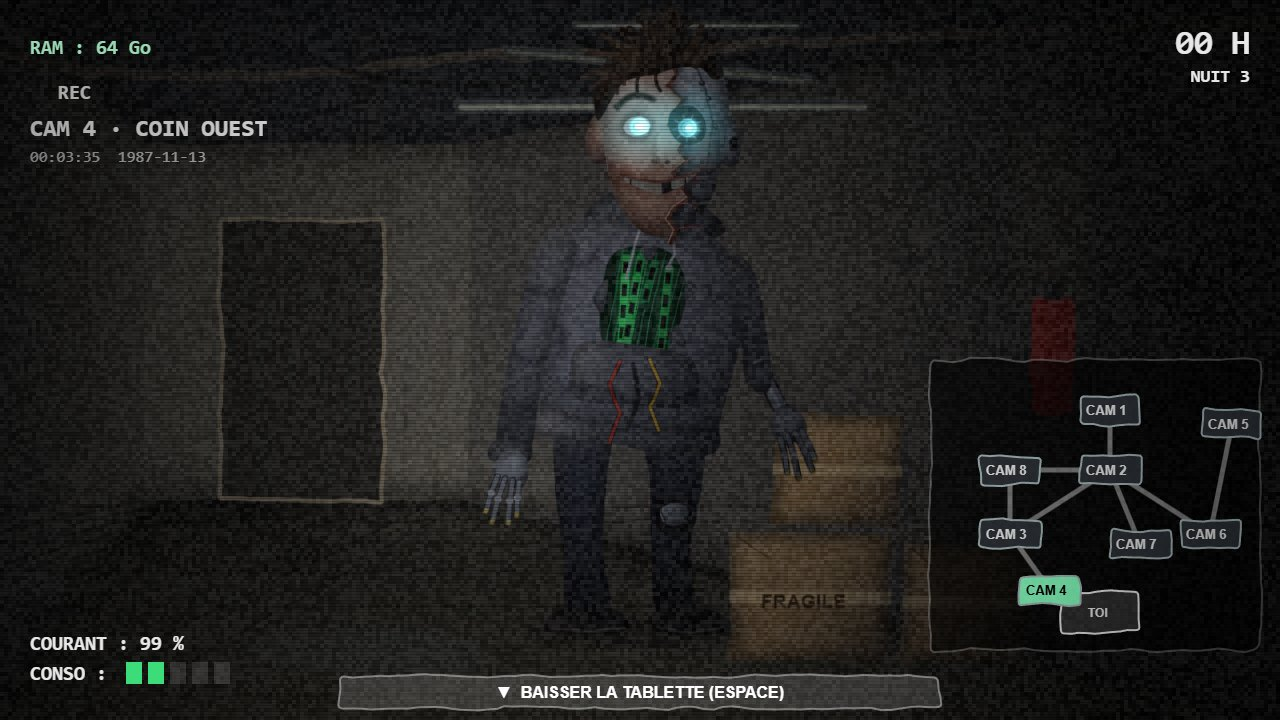
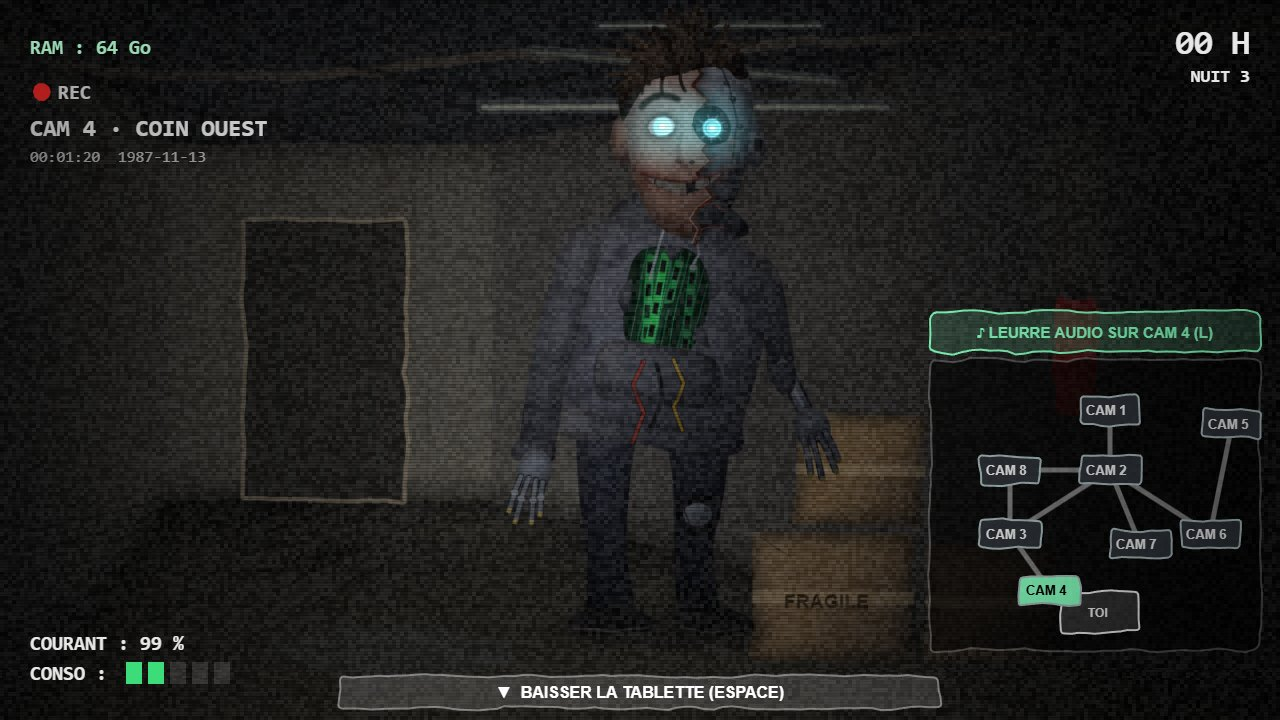
L'histoire et de nouveaux gestes : 8 fragments à ramasser sur les caméras, un journal à chaque matin, les Archives dans le menu et une vraie fin ; leurre audio (L) pour attirer Ram ou faire reculer les Puces ; à partir de la nuit 2, Ram pirate les caméras, à redémarrer depuis le moniteur (R) ; la nu

diff --git a/index.js b/index.js
@@ -635,6 +635,8 @@ function makeAudio() {
     breath(pan = 0, near = .5) { noise({ f: 420, q: .7, dur: 1.3, vol: .05 + near * .14, attack: .55, pan }); noise({ f: 300, q: .7, dur: 1.1, vol: .04 + near * .12, attack: .45, pan, at: 1.45 }); },
     // une image qui n'aurait pas dû être là
     glitch() { noise({ f: 3000, q: .3, dur: .28, vol: .5, type: 'highpass' }); tone({ f: 90, type: 'sawtooth', dur: .25, vol: .35, slide: 3 }); tone({ f: 1200, type: 'square', dur: .2, vol: .08, slide: .3 }); },
+    lure() { [392, 523.25, 659.25, 783.99].forEach((f, i) => tone({ f, type: 'square', dur: .35, vol: .05, at: i * .12 })); noise({ f: 2000, q: 2, dur: .8, vol: .05, at: .1 }); },
+    reboot() { tone({ f: 60, type: 'sawtooth', dur: .6, vol: .12, slide: 4 }); [0, .25, .5].forEach(at => tone({ f: 1800, type: 'square', dur: .05, vol: .04, at })); },
     tick() { tone({ f: 2000, type: 'square', dur: .015, vol: .02 }); },
     click() { tone({ f: 700, type: 'square', dur: .03, vol: .05 }); noise({ f: 3000, q: 4, dur: .03, vol: .05 }); },
     deny() { tone({ f: 160, type: 'square', dur: .2, vol: .08 }); },
@@ -670,14 +672,39 @@ const CALLS = {
     "S'il arrive et que ta porte droite est ouverte, il te pique seize gigas. Si elle est fermée, il tape dedans et ça te coûte du courant. Regarde-le de temps en temps, voilà."],
   3: ["Allô ? Bon, mauvaise nouvelle : les Puces. De petites bêtes faites d'une barrette, avec des pattes. Elles remontent par la gaine de ventilation, caméra sept.",
     "Quand tu les entends gratter au-dessus de toi, ferme la trappe. Touche V, ou l'interrupteur sur le bureau. Sinon elles descendent et elles mangent la Pile. Huit gigas à chaque fois.",
-    "Et Monsieur Altman a trouvé le couloir est. Il peut arriver des deux côtés, maintenant."],
+    "Et Monsieur Altman a trouvé le couloir est. Il peut arriver des deux côtés, maintenant.",
+    "Autre chose : la nuit, il pirate parfois les caméras. Si l'écran dit « accès refusé », redémarre-les depuis le moniteur du bureau, touche R. Et si tu as besoin de l'éloigner, le leurre audio de la tablette joue un petit carillon dans la pièce que tu regardes. Il adore ce son. Il dit qu'il s'en souvient.",
+    "Ah, et si tu trouves des papiers qui traînent sur les caméras… ramasse-les. Le patron, monsieur Octet, il avait un fils. On n'en parle pas, ici."],
   4: ["Allô ? Allô ? Je… je n'ai pas beaucoup de temps. Il m'a parlé, hier. Par la grille. Il disait qu'il voulait juste emprunter. Juste une barrette.",
     "Ne lui ouvre pas. Il ne rend jamais rien. Il… attends. Tu entends ce sourire ?"],
   5: ["… … Bonjour. C'est Ram. Gérard ne viendra plus. Il a partagé sa RAM. C'était très généreux.",
     "Je ne suis pas méchant, tu sais. Je veux seulement que toute la mémoire du monde travaille ensemble. Dans mes serveurs.",
     "Ouvre la porte. On en parle. Je souris, regarde."],
-  6: ["Tu es encore là ? Plus de messages. Plus personne. Seulement toi, la Pile, et moi."],
+  6: ["Tu es encore là ? Plus de messages. Plus personne. Seulement toi, la Pile, et moi.", "Tu as lu les papiers, n'est-ce pas. Alors tu sais ce qu'il y a dans la vitrine. Ce n'est pas à toi."],
 };
+// le lore : 8 fragments cachés dans les caméras (un par nuit, parfois deux), un journal à chaque matin, et la vraie fin
+const FRAGS = [
+  ['f1', 'Badge d\'employé', 'CLOSEDRAM — Ingénieur n° 1\nLÉO OCTET\nAccès : laboratoire PILE, tous niveaux.\n\nLa photo a été grattée. Quelqu\'un a dessiné un sourire par-dessus, au feutre.'],
+  ['f2', 'Note sur le frigo', 'Léo n\'est pas rentré. Raymond dit qu\'il travaille tard sur la PILE.\nIl souriait en le disant.\nJe n\'aime pas quand il sourit.\n\n— Gérard, 13 novembre 1987'],
+  ['f3', 'Brevet n° 87-1113', 'Procédé de sauvegarde intégrale d\'une conscience humaine sur mémoire vive.\nCapacité requise : 64 Go.\nÉtat de l\'art en 1987 : 640 Ko.\n\nInventeurs : R. Altman, L. Octet.'],
+  ['f4', 'Journal de test n° 12', 'Sujet : L.O.   Transfert : 61 %.\nLe sujet demande où est son père.\nLe sujet demande pourquoi il ne sent plus ses mains.\nLe sujet demande qui est l\'homme qui sourit dans le miroir.\n\nNote de R.A. : « Il faut plus de mémoire. »'],
+  ['f5', 'Bon de commande', '1 masque facial en silicone, modèle « R.A. »\nExpression : sourire, permanent.\nYeux : à fournir par le client.\n\nLivraison : Octet & Fils, porte de service, de nuit.'],
+  ['f6', 'Message vocal (transcrit)', '« Papa ? C\'est moi. Je crois.\nIl me manque des bouts. Des prénoms. Ta voix.\nIl dit que s\'il trouve assez de RAM, je me souviendrai de tout.\nIl dit que ce n\'est pas lui qui a peur d\'oublier. C\'est moi. »'],
+  ['f7', 'Facture du Revendeur', 'Rachat de 4 000 barrettes, payé comptant.\nClient : M. R. Altman.\n\nNote du vendeur : « Le client a insisté. Il en faut toujours plus.\nIl oublie ce qu\'il a acheté la veille. »'],
+  ['f8', 'Photo déchirée', 'Deux jeunes hommes devant un garage, 1987.\nL\'un sourit. L\'autre a les yeux bleus.\n\nAu dos : « Raymond et moi, le jour où la PILE a démarré.\nSi un jour je ne me souviens plus, garde-la, papa. — L. »'],
+];
+const NEWS = {
+  1: ['Le Courrier du Soir, 14 novembre 1987', 'DISPARITION D\'UN JEUNE INGÉNIEUR\n\nLéo Octet, 24 ans, n\'est pas rentré chez son père après une nuit au laboratoire de la jeune société ClosedRAM. Son associé, Raymond Altman, se dit « confiant » : « Léo est très présent. »'],
+  2: ['Le Courrier du Soir, 3 mars 1994', 'CLOSEDRAM RACHÈTE TOUTE LA MÉMOIRE DU PAYS\n\nEn une semaine, la société de Raymond Altman a acheté tous les stocks de barrettes. Son patron, que personne n\'a vu depuis des années, répond par écrit : « La mémoire doit travailler ensemble. »'],
+  3: ['Le Courrier du Soir, 9 juin 2003', 'RAYMOND ALTMAN SORT DE L\'OMBRE\n\nPremière apparition publique en seize ans. Le patron de ClosedRAM n\'a pas pris une ride. « Je n\'ai jamais été aussi présent », a-t-il dit, avant de sourire pendant onze minutes sans s\'arrêter.'],
+  4: ['Le Courrier du Soir, 2 février 2019', 'PÉNURIE MONDIALE DE RAM\n\nPlus une barrette en vente. Les entrepôts de ClosedRAM sont pleins, dit-on, mais ses serveurs « oublient » sans cesse. Un employé témoigne : « Il redémarre. Il demande où est son père. »'],
+  5: ['Le Courrier du Soir, hier', 'UN VEILLEUR DE NUIT DISPARAÎT CHEZ OCTET & FILS\n\nGérard M., 71 ans, ancien gardien de la petite entreprise familiale, n\'a pas été revu. Sur son répondeur, un dernier message : « Il est venu chercher le reste. »'],
+  6: ['Rapport de police, confidentiel', 'Le corps de Raymond Altman a été retrouvé hier dans l\'ancien garage de ClosedRAM.\nSelon le légiste, il est mort depuis environ 1987.\n\nQuestion du commissaire, au crayon dans la marge : « Alors qui porte son visage ? »'],
+};
+const TRUE_END = ['La vraie fin', 'Tu as tout lu. Tu sais.\n\nRaymond Altman est mort en 1987, le soir où la PILE a démarré. Ce qui marche dans les couloirs, c\'est Léo : sa mémoire coupée en morceaux, enfermée dans un corps de métal, sous le visage de l\'homme qui l\'a mis là.\n\nIl ne veut pas toute la RAM du monde. Il veut assez de place pour se souvenir de qui il est.\nLa Pile, ce sont les derniers 64 Go de lui que son père a cachés.\n\nÀ 6 h, tu ouvres la vitrine. Tu poses une barrette dans l\'encadrement de la porte.\nLe sourire ne bouge pas. Mais les yeux, pour la première fois, ne sont plus bleus.'];
+// les liens entre les pièces (pour le leurre audio : il ne vient que d'une pièce voisine)
+const ADJ = { 1: ['2'], 2: ['1', '3', '8', '6'], 8: ['2', '3'], 3: ['2', '8', '4'], 4: ['3', 'L'], 6: ['2', 'R'], L: ['4'], R: ['6'] };
+const FRAG_SPOTS = { 1: [[300, 470], [1000, 560]], 2: [[220, 600], [1060, 610]], 3: [[220, 470], [980, 560]], 4: [[1020, 450], [300, 600]], 5: [[200, 600], [1120, 600]], 6: [[1080, 440], [220, 600]], 8: [[230, 560], [900, 590]] };
 // l'agressivité de chacun, nuit par nuit (0 = ne bouge pas, 20 = au maximum) : [Ram, Revendeur, Puces]
 const NIGHTS = { 1: [2, 0, 0], 2: [4, 2, 0], 3: [6, 5, 4], 4: [9, 8, 7], 5: [12, 11, 10], 6: [16, 15, 14] };
 const RAM_NEXT = { 1: ['2'], 2: ['3', '8', '6'], 8: ['3', '2'], 3: ['4'], 4: ['L'], 6: ['R'] };
@@ -698,7 +725,7 @@ export default async function (ctx) {
   const rooms = buildRooms(), office = buildOffice(), A = makeAudio();
   const SCAN = (() => { const c = mkCanvas(W, H), s = c.getContext('2d'); s.fillStyle = 'rgba(0,0,0,.22)'; for (let y = 0; y < H; y += 3) s.fillRect(0, y, W, 1); return c; })();
   // la sauvegarde : nuit atteinte, étoiles, nuit perso
-  const save = { night: 1, stars: 0, custom: [10, 10, 10], ...(await folder.read('progression').catch(() => null) || {}) };
+  const save = { night: 1, stars: 0, custom: [10, 10, 10], docs: [], ...(await folder.read('progression').catch(() => null) || {}) };
   const keep = () => folder.write('progression', save).catch(() => {});
 
   // ---------- état ----------
@@ -708,7 +735,7 @@ export default async function (ctx) {
     const [ra, sc, ch] = ai || NIGHTS[Math.min(n, 6)];
     S = { n, time: 0, hourLen: 60, power: 100, ram: 64, pan: 320, doorL: false, doorR: false, dl: 0, dr: 0, lightL: false, lightR: false, vent: false, va: 0,
       cam: false, ca: 0, sel: 1, ai: { ram: ra, sc, ch }, ramPos: '1', ramT: 0, doorWait: 0, scStage: 0, scRun: 0, scT: 0, scLock: 0, chPos: 0, chT: 0, chWait: 0,
-      disrupt: 0, flick: 0, out: 0, outPhase: 0, inside: 0, ramVar: 0, breathT: 0, hallT: 40 + Math.random() * 50, hall: 0, switchT: 0, call: CALLS[Math.min(n, 6)] && !ai ? { lines: CALLS[Math.min(n, 6)], i: 0, t: 0 } : null, steal: null, said: 0, events: [], usage: 1, hourBumps: 0 };
+      disrupt: 0, flick: 0, out: 0, outPhase: 0, inside: 0, ramVar: 0, frag: null, fragT: 25 + Math.random() * 150, fragN: 0, lure: null, lureCd: 0, hacked: false, reboot: 0, camOx: 0, newDoc: null, breathT: 0, hallT: 40 + Math.random() * 50, hall: 0, switchT: 0, call: CALLS[Math.min(n, 6)] && !ai ? { lines: CALLS[Math.min(n, 6)], i: 0, t: 0 } : null, steal: null, said: 0, events: [], usage: 1, hourBumps: 0 };
     scene = 'card'; sceneT = 0; setTimeout(prepJaws, 50);  // l'écran de la nuit laisse le temps de préparer le saut au visage
   }
   // les images du saut au visage, bouche de plus en plus ouverte, dessinées une seule fois
@@ -736,7 +763,7 @@ export default async function (ctx) {
     if (S.call) { S.call.t += dt; }
     // le courant
     if (!S.out) {
-      S.usage = 1 + S.doorL + S.doorR + S.vent + (S.lightL || S.lightR ? 1 : 0) + (S.cam ? 1 : 0);
+      S.usage = Math.min(5, 1 + S.doorL + S.doorR + S.vent + (S.lightL || S.lightR ? 1 : 0) + (S.cam ? 1 : 0) + (S.reboot > 0 ? 1 : 0));
       const base = .085 + S.n * .006 + (S.n >= 2 ? .01 : 0);
       S.power -= S.usage * base * dt;
       if (S.power <= 0) powerOut();
@@ -749,7 +776,7 @@ export default async function (ctx) {
       S.ramT -= 4.97;
       if (!/[LR]|in/.test(S.ramPos) && R(20) < S.ai.ram) {
         const opts = RAM_NEXT[S.ramPos].filter(id => S.n >= 3 || id !== '6'), to = opts[R(opts.length)], from = S.ramPos;
-        S.ramPos = to; S.ramVar = /[368]/.test(to) && R(3) === 0 ? 1 : 0; if (S.cam && (S.sel == from || S.sel == to)) S.disrupt = 1.6;  // la caméra qu'on regarde décroche quand il passe
+        S.ramPos = to; S.ramVar = /[368]/.test(to) && R(3) === 0 ? 1 : 0; if (S.n >= 2 && /[12]/.test(to) && !S.hacked && R(40) < S.ai.ram) { S.hacked = true; A.glitch(); if (S.cam) S.disrupt = .8; } if (S.cam && (S.sel == from || S.sel == to)) S.disrupt = 1.6;  // la caméra qu'on regarde décroche quand il passe
         if (/[346LR]/.test(to)) A.step(/[34L]/.test(to) ? -.8 : .8, /[LR]/.test(to) ? 1 : .5);
         if (/[LR]/.test(to)) { S.doorWait = Math.max(2.6, 7.5 - S.ai.ram * .22); if (R(3) === 0) ramLine(); }
       }
@@ -768,6 +795,17 @@ export default async function (ctx) {
     // les hallucinations : à partir de la nuit 3, son visage passe parfois devant tes yeux
     if (S.n >= 3 || S.ai.ram >= 10) { S.hallT -= dt; if (S.hallT <= 0) { S.hallT = 35 + Math.random() * 60; S.hall = .2; A.glitch(); } }
     if (S.hall > 0) S.hall -= dt; if (S.switchT > 0) S.switchT -= dt;
+    // un fragment apparaît quelques secondes dans une caméra (au plus deux par nuit, tant qu'il en reste à trouver)
+    const left = FRAGS.filter(f => !save.docs.includes(f[0]));
+    if (S.frag) { S.frag.t -= dt; if (S.frag.t <= 0) S.frag = null; }
+    else if (left.length && S.fragN < 2 && (S.fragT -= dt) <= 0) { const cams = Object.keys(FRAG_SPOTS), cam = cams[R(cams.length)], sp = FRAG_SPOTS[cam][R(2)]; S.frag = { id: left[0][0], cam, x: sp[0], y: sp[1], t: 14 }; S.fragN++; S.fragT = 60 + Math.random() * 120; }
+    // le leurre : deux secondes plus tard, s'il est dans une pièce voisine, il vient voir (les Puces, elles, reculent)
+    if (S.lureCd > 0) S.lureCd -= dt;
+    if (S.lure && (S.lure.t -= dt) <= 0) { const c = S.lure.cam; S.lure = null;
+      if (c === '7') { if (S.chPos) { S.chPos = Math.max(0, S.chPos - 2); A.skitter(.2); } }
+      else if ((ADJ[c] || []).includes(S.ramPos) && R(10) < 8) { const from = S.ramPos; S.ramPos = c; S.ramVar = 0; S.ramT = 0; if (/[LR]/.test(from)) A.step(from === 'L' ? -.6 : .6, .4); if (S.cam && S.sel == c) S.disrupt = 1; } }
+    // le piratage : branché au réseau (caméras 1 et 2), il coupe tes caméras ; on les redémarre depuis le moniteur
+    if (S.reboot > 0 && (S.reboot -= dt) <= 0) { S.hacked = false; A.chime(); }
     // ---- le Revendeur : il prépare son coup quand on ne le regarde pas
     S.scT += dt; if (S.scLock > 0) S.scLock -= dt;
     const watching = S.cam && S.sel == 5;
@@ -817,7 +855,7 @@ export default async function (ctx) {
   }
   function win() {
     A.hush(); A.ambience(false); A.chime(); scene = 'six'; sceneT = 0;
-    if (S.n < 7) { save.night = Math.max(save.night, Math.min(S.n + 1, 6)); if (S.n === 5) save.stars = Math.max(save.stars, 1); if (S.n === 6) save.stars = Math.max(save.stars, 2); }
+    if (S.n < 7) { if (!save.docs.includes('j' + S.n)) save.docs.push('j' + S.n); if (S.n === 6 && FRAGS.every(f => save.docs.includes(f[0])) && !save.docs.includes('fin')) { save.docs.push('fin'); S.trueEnd = true; } save.night = Math.max(save.night, Math.min(S.n + 1, 6)); if (S.n === 5) save.stars = Math.max(save.stars, 1); if (S.n === 6) save.stars = Math.max(save.stars, 2); }
     if (S.n === 7 && S.ai.ram >= 20 && S.ai.sc >= 20 && S.ai.ch >= 20) save.stars = 3;
     keep();
   }
@@ -890,7 +928,10 @@ export default async function (ctx) {
     g.fillStyle = '#c8c8c0'; g.font = 'bold 11px Arial'; g.fillText('TRAPPE (V)', tx + 18, 672);
     // l'écran du bureau
     const mx = 560 - p; g.fillStyle = dark ? '#000' : 'rgba(40,120,90,.25)'; g.fillRect(mx + 10, 420, 220, 140);
-    if (!dark) { g.fillStyle = '#7ef0b4'; g.font = '14px Consolas, monospace'; ['OCTET & FILS', 'NUIT ' + S.n, 'PILE : ' + S.ram + ' Go', 'COURANT : ' + Math.max(0, S.power | 0) + ' %', T % 1 < .5 ? '> _' : '>'].forEach((l, i) => g.fillText(l, mx + 22, 446 + i * 22)); }
+    if (!dark) { g.fillStyle = '#7ef0b4'; g.font = '14px Consolas, monospace'; ['OCTET & FILS', 'NUIT ' + S.n, 'PILE : ' + S.ram + ' Go', 'COURANT : ' + Math.max(0, S.power | 0) + ' %'].forEach((l, i) => g.fillText(l, mx + 22, 446 + i * 22));
+      if (S.reboot > 0) { g.fillText('REDÉMARRAGE CAMÉRAS', mx + 22, 534); g.fillStyle = '#1a4a34'; g.fillRect(mx + 22, 542, 190, 10); g.fillStyle = '#7ef0b4'; g.fillRect(mx + 22, 542, 190 * (1 - S.reboot / 4), 10); }
+      else if (S.hacked) { g.fillStyle = T % .8 < .5 ? '#ff5a4a' : '#7a2a24'; g.fillText('CAMÉRAS PIRATÉES', mx + 22, 534); g.fillText('[R] OU CLIC : REDÉMARRER', mx + 22, 552); }
+      else g.fillText(T % 1 < .5 ? '> _' : '>', mx + 22, 534); }
     // la lumière de la pièce : la lampe du bureau, qui vacille ; noir presque total sans courant
     const lamp = S.out ? 0 : S.flick > 0 ? (S.ramPos === 'in' ? Math.random() * .5 : .35 + Math.random() * .3) : 1;
     g.fillStyle = rad(g, 960 - p, 520, 40, 1050, [[0, `rgba(0,0,0,${.15 + (1 - lamp) * .6})`], [.5, `rgba(0,0,0,${.5 + (1 - lamp) * .4})`], [1, `rgba(0,0,0,${.88 + (1 - lamp) * .1})`]]); g.fillRect(0, 0, W, H);
@@ -909,7 +950,7 @@ export default async function (ctx) {
   function drawCam() {
     const id = S.sel, room = rooms[id], here = S.ramPos == id, close = here && S.ramVar && /[368]/.test(id), ox = Math.sin(T * .22 + +id) * 46;
     g.save(); g.translate(W / 2, H / 2); g.scale(1.08, 1.08); g.translate(-W / 2 - ox, -H / 2);
-    g.drawImage(room.base, 0, 0);
+    g.drawImage(room.base, 0, 0); S.camOx = ox;
     const lit = .75, ch = (draw, x, y, s, side = -1, key) => litChar(g, draw, x, y, s, side, .4, key);
     const ram = pose => (cg, a, b, s) => drawRam(cg, a, b, s, pose, lit, T), sc = pose => (cg, a, b, s) => drawScalper(cg, a, b, s, pose, lit, T);
     if (here && room.spots.ram && !close) { const [fx, fy] = room.spots.ram; g.save(); g.translate(fx, fy); g.rotate(Math.sin(T * .7) * .01 + (T % 4.3 < .06 ? .03 : 0)); g.translate(-fx, -fy); ch(ram(id === '4' ? 'lean' : 'stand'), ...room.spots.ram, -1, id === '4' ? 'ramlean' : 'ramstand'); g.restore(); }
@@ -920,6 +961,7 @@ export default async function (ctx) {
     if (id === '6' && S.scRun) ch(sc('run'), 640 + (4.2 - S.scRun) * 60, 600 + (4.2 - S.scRun) * 40, +(.55 + (4.2 - S.scRun) * .2).toFixed(1), 1, 'scrun' + (T * 12 | 0) % 6);
     if (id === '7') for (let i = 0; i < (S.chPos ? 1 + Math.min(3, S.chPos) : 0); i++) { const k = S.chPos / 4, s = .35 + k * 1.4; drawChip(g, 640 + (i - 1) * 90 * s, 345 + k * 200 + (i % 2) * 20 * s, s, .8, T, i); }
     g.drawImage(room.shade, 0, 0);
+    if (S.frag && S.frag.cam == id) { const { x: fx, y: fy } = S.frag; g.save(); g.translate(fx, fy); g.rotate(-.2); rrect(g, -22, -16, 44, 32, 2, '#d8d0b8'); g.strokeStyle = 'rgba(40,40,60,.5)'; g.lineWidth = 1.5; for (let k = 0; k < 4; k++) { g.beginPath(); g.moveTo(-16, -8 + k * 6); g.lineTo(10 - k * 3, -8 + k * 6); g.stroke(); } g.restore(); glow(g, fx, fy, 50 + Math.sin(T * 5) * 8, '255,230,160', .35); }
     if (here && R(5) === 0) { g.fillStyle = 'rgba(0,0,0,.55)'; g.fillRect(-60, 0, W + 120, H); }  // la lampe de la pièce saute
     // les yeux et les LED percent l'ombre
     if (here && room.spots.ram && !close) ramGlow(g, ...room.spots.ram, id === '4' ? 'lean' : 'stand', .8);
@@ -942,6 +984,25 @@ export default async function (ctx) {
     g.font = 'bold 24px Consolas, monospace'; g.fillText('CAM ' + id + ' · ' + room.name, 30, 136);
     const sec = S.time / S.hourLen * 3600 | 0; g.font = '16px Consolas, monospace'; g.fillStyle = 'rgba(230,230,230,.75)'; g.fillText(`${String(sec / 3600 | 0).padStart(2, '0')}:${String(sec / 60 % 60 | 0).padStart(2, '0')}:${String(sec % 60).padStart(2, '0')}  1987-11-13`, 30, 162);
     drawMap();
+    // l'écran piraté : plus d'image, plus de leurre, tant qu'on n'a pas redémarré depuis le bureau
+    if (S.hacked) { g.fillStyle = 'rgba(0,0,0,.92)'; g.fillRect(0, 0, W, H - 60); g.save(); g.globalAlpha = .25; g.drawImage(NOISE[(T * 30 | 0) % 4], 0, 0, W, H - 60); g.restore(); drawMap();
+      g.fillStyle = T % 1 < .6 ? '#ff5a4a' : '#7a2a24'; g.font = 'bold 40px Consolas, monospace'; g.textAlign = 'center'; g.fillText('ACCÈS REFUSÉ', (MAPX - 20) / 2, H / 2 - 30);
+      g.fillStyle = '#ccc'; g.font = '18px Consolas, monospace'; g.fillText(S.reboot > 0 ? 'redémarrage en cours…' : 'Redémarre les caméras depuis le moniteur du bureau (R)', (MAPX - 20) / 2, H / 2 + 10); g.fillStyle = '#7ef0b4'; g.fillText('« Je vois tout, maintenant. »', (MAPX - 20) / 2, H / 2 + 50); g.textAlign = 'left'; }
+    // le bouton du leurre audio, au-dessus de la carte
+    const lx = MAPX - 10, ly = MAPY - 58, ready = S.lureCd <= 0 && !S.hacked;
+    rrect(g, lx, ly, 330, 40, 6, ready ? 'rgba(126,240,180,.18)' : 'rgba(255,255,255,.06)', ready ? '#7ef0b4' : '#555', 2);
+    g.fillStyle = ready ? '#7ef0b4' : '#888'; g.font = 'bold 15px Arial'; g.textAlign = 'center'; g.fillText(S.lure ? '♪ LE CARILLON JOUE…' : ready ? '♪ LEURRE AUDIO SUR CAM ' + id + ' (L)' : S.hacked ? 'LEURRE HORS LIGNE' : 'LEURRE : ' + Math.ceil(S.lureCd) + ' s', lx + 165, ly + 26); g.textAlign = 'left';
+  }
+  // ramasser un fragment ; jouer le leurre
+  function pickFrag(x, y) {
+    if (!S.frag || S.frag.cam !== String(S.sel) || S.hacked) return false;
+    const sx = (S.frag.x - W / 2 - S.camOx) * 1.08 + W / 2, sy = (S.frag.y - H / 2) * 1.08 + H / 2;
+    if (Math.hypot(x - sx, y - sy) > 46) return false;
+    save.docs.push(S.frag.id); keep(); S.newDoc = S.frag.id; A.chime(); flash('Fragment trouvé : ' + FRAGS.find(f => f[0] === S.frag.id)[1] + ' (Archives)', '#ffd84a'); S.frag = null; return true;
+  }
+  function lure() {
+    if (!S.cam || S.hacked || S.lureCd > 0) return A.deny();
+    S.lure = { cam: String(S.sel), t: 2 }; S.lureCd = 14; S.power -= 1.5; A.lure();
   }
   function drawMap() {
     rrect(g, MAPX - 10, MAPY - 10, 330, 290, 6, 'rgba(0,0,0,.55)', 'rgba(255,255,255,.25)', 2);
@@ -978,7 +1039,7 @@ export default async function (ctx) {
 
   // ---------- les écrans ----------
   const MENU = () => [['NOUVELLE PARTIE', () => { scene = 'intro'; sceneT = 0; }], ...(save.night > 1 ? [['CONTINUER · NUIT ' + Math.min(save.night, 5), () => start(Math.min(save.night, 5))]] : []),
-    ...(save.night >= 6 ? [['NUIT 6', () => start(6)]] : []), ...(save.stars >= 1 ? [['NUIT PERSO', () => { scene = 'custom'; sceneT = 0; }]] : []), ['COMMENT JOUER', () => { scene = 'help'; sceneT = 0; }], [A.muted ? 'SON : NON' : 'SON : OUI', () => { A.muted = !A.muted; A.mute(A.muted); }]];
+    ...(save.night >= 6 ? [['NUIT 6', () => start(6)]] : []), ...(save.stars >= 1 ? [['NUIT PERSO', () => { scene = 'custom'; sceneT = 0; }]] : []), ...(save.docs.length ? [['ARCHIVES (' + save.docs.length + ')', () => { scene = 'archives'; sceneT = 0; }]] : []), ['COMMENT JOUER', () => { scene = 'help'; sceneT = 0; }], [A.muted ? 'SON : NON' : 'SON : OUI', () => { A.muted = !A.muted; A.mute(A.muted); }]];
   let buttons = [];
   const button = (label, x, y, w, h, fn, sel) => { const hov = mouse.x > x && mouse.x < x + w && mouse.y > y && mouse.y < y + h; buttons.push({ x, y, w, h, fn }); g.fillStyle = hov || sel ? '#fff' : '#9a9a9a'; g.font = 'bold 30px Impact, "Arial Black", sans-serif'; g.fillText((hov || sel ? '> ' : '') + label, x, y + h - 8); };
   function drawTitle() {
@@ -1007,7 +1068,7 @@ export default async function (ctx) {
     g.font = '20px Georgia'; g.fillStyle = '#ccc';
     ['Tiens de 00 h à 06 h sans perdre la Pile (64 Go de RAM).', '', 'Souris aux bords de l\'écran (ou ← →) : regarder à gauche et à droite.', 'Q / D : porte gauche / droite.   A / E : lumière gauche / droite.', 'V : trappe d\'aération.   ESPACE : les caméras (1 à 8 pour en choisir une).   C : couper le message.', '',
       'RAM ALTMAN : il marche vers tes portes. Dans le noir on ne le voit pas : éclaire. S\'il entre, plus rien ne marche… ne baisse pas la tablette.', 'LE REVENDEUR : regarde-le à la caméra 5, sinon il court par le couloir est (−16 Go si la porte droite est ouverte).', 'LES PUCES : elles grattent dans la gaine (caméra 7). Ferme la trappe quand elles arrivent (−8 Go sinon).', '',
-      'Tout consomme du courant. À 0 %, tout s\'éteint… et il fredonne.', '', '[ cliquer pour revenir ]'].forEach((l, i) => g.fillText(l, 80, 170 + i * 34));
+      'LEURRE AUDIO (L) : un carillon dans la pièce filmée ; s\'il est à côté, il vient voir. Utile pour l\'éloigner d\'une porte.', 'CAMÉRAS PIRATÉES : redémarre-les au moniteur du bureau (R). Des papiers traînent parfois sur les caméras : clique dessus.', 'Tout consomme du courant. À 0 %, tout s\'éteint… et il fredonne.', '[ cliquer pour revenir ]'].forEach((l, i) => g.fillText(l, 80, 170 + i * 34));
   }
   function drawCustom() {
     g.fillStyle = '#05080a'; g.fillRect(0, 0, W, H); g.fillStyle = '#ececec'; g.font = '48px Impact, "Arial Black", sans-serif'; g.fillText('NUIT PERSO', 80, 100);
@@ -1035,7 +1096,30 @@ export default async function (ctx) {
     const k = Math.min(1, sceneT / 1.5); g.font = '120px Impact, "Arial Black", sans-serif'; g.fillText(k < 1 ? '05 H' : '06 H', W / 2, H / 2);
     if (sceneT > 2) { g.font = '28px Georgia'; g.fillStyle = '#7ef0b4'; g.fillText(`La Pile tient encore : ${S.ram} Go sur 64.`, W / 2, H / 2 + 70); }
     if (sceneT > 3) { g.font = '20px Georgia'; g.fillStyle = '#aaa'; g.fillText(S.n === 5 ? 'Fin de semaine. Ta paie : 120 € et une barrette de 4 Go. Nuit 6 débloquée.' : S.n === 6 ? 'Il n\'a rien eu. Il sourit quand même. Nuit perso débloquée.' : '[ cliquer pour continuer ]', W / 2, H / 2 + 120); }
+    if (sceneT > 4 && S.n < 7) { g.font = 'italic 18px Georgia'; g.fillStyle = '#ffd84a'; g.fillText(S.trueEnd ? 'Tu as tout trouvé. Va lire « La vraie fin » dans les Archives.' : 'Dans les Archives : ' + NEWS[S.n][0] + (S.newDoc ? ', et un fragment' : ''), W / 2, H / 2 + 160); }
     g.textAlign = 'left'; post(g, T, .1, .6);
+  }
+  // ---------- les archives : ce que tu as appris ----------
+  const DOCS = () => [...FRAGS.map(([id, t, x]) => ({ id, t, x, k: 'FRAGMENT' })), ...Object.entries(NEWS).map(([n, [t, x]]) => ({ id: 'j' + n, t, x, k: 'JOURNAL' })), { id: 'fin', t: TRUE_END[0], x: TRUE_END[1], k: '???' }];
+  let doc = null;
+  function drawArchives() {
+    g.fillStyle = '#07090a'; g.fillRect(0, 0, W, H); g.fillStyle = '#ececec'; g.font = '48px Impact, "Arial Black", sans-serif'; g.fillText('ARCHIVES', 80, 90);
+    const all = DOCS(), have = all.filter(d => save.docs.includes(d.id)).length; g.font = '16px Consolas, monospace'; g.fillStyle = '#7ef0b4'; g.fillText(have + ' / ' + all.length + ' documents', 330, 88);
+    all.forEach((d, i) => { const x = 80 + (i % 3) * 380, y = 130 + Math.floor(i / 3) * 92, got = save.docs.includes(d.id);
+      rrect(g, x, y, 350, 78, 6, got ? '#111a16' : '#0c0d0e', got ? '#3a6a52' : '#25282b', 2);
+      g.fillStyle = got ? '#ffd84a' : '#444'; g.font = 'bold 11px Arial'; g.fillText(d.k, x + 14, y + 22);
+      g.fillStyle = got ? '#e8e8e8' : '#555'; g.font = '17px Georgia'; g.fillText(got ? d.t : '— pas encore trouvé —', x + 14, y + 48);
+      if (got) buttons.push({ x, y, w: 350, h: 78, fn: () => { doc = d; scene = 'doc'; sceneT = 0; } }); });
+    button('RETOUR', 80, H - 70, 200, 50, () => { scene = 'title'; });
+  }
+  function drawDoc() {
+    g.fillStyle = '#050607'; g.fillRect(0, 0, W, H);
+    g.save(); g.translate(W / 2, H / 2); g.rotate(-.012); form(g, [-430, -300, 430, -306, 436, 300, -432, 296], doc.k === 'JOURNAL' ? '#d8d0b8' : '#cfc8b4', { path: (gg, p) => wobPath(gg, p), aw: 30, ao: .45, hi: .1 }); g.restore();
+    g.fillStyle = '#5a2a20'; g.font = 'bold 13px Arial'; g.fillText(doc.k, W / 2 - 390, 112);
+    g.fillStyle = '#1a1a1a'; g.font = 'bold 26px Georgia'; g.fillText(doc.t, W / 2 - 390, 150);
+    g.font = '19px Georgia'; let y = 196; for (const para of doc.x.split('\n')) { if (!para) { y += 14; continue; } const words = para.split(' '); let line = ''; for (const w of words) { const t = line ? line + ' ' + w : w; if (g.measureText(t).width > 780) { g.fillText(line, W / 2 - 390, y); y += 28; line = w; } else line = t; } g.fillText(line, W / 2 - 390, y); y += 28; }
+    post(g, T, .08, .7);
+    g.fillStyle = '#888'; g.font = '14px Arial'; g.textAlign = 'center'; g.fillText('[ cliquer pour revenir ]', W / 2, H - 30); g.textAlign = 'left';
   }
   function drawJump() {
     const t = sceneT;
@@ -1062,7 +1146,7 @@ export default async function (ctx) {
   let last = performance.now();
   function frame() {
     const now = performance.now();  // pas l'horodatage de requestAnimationFrame : il n'a pas toujours la même origine que performance.now()
-    const dt = Math.max(0, Math.min(.1, (now - last) / 1000)) * speed;  // la première image de requestAnimationFrame peut dater d'avant « last » last = now;
+    const dt = Math.max(0, Math.min(.1, (now - last) / 1000)) * speed; last = now;  // la première image de requestAnimationFrame peut dater d'avant « last »
     buttons = []; sceneT += dt;
     if (!view.isConnected) return;
     if (scene === 'play') { tick(dt); if (scene === 'play') { S.pan = Math.max(0, Math.min(OW - W, S.pan + panDir() * 900 * dt)); if (S.ca > .5) drawCam(); else drawOffice(); if (S.ca > .02 && S.ca < .98) { g.fillStyle = `rgba(0,0,0,${1 - Math.abs(S.ca - .5) * 2})`; g.fillRect(0, 0, W, H); } post(g, T, S.ca > .5 ? .05 : .09, S.ca > .5 ? .5 : .75); if (S.hall > 0 && JAWS) { const J = JAWS[R(4)], k = 1.1 + Math.random() * .3; g.save(); g.globalAlpha = .85; g.drawImage(J, W / 2 - 450 * k / 1.6 + R(40) - 20, H / 2 - 520 * k / 1.6, 900 * k / 1.6, 1100 * k / 1.6); g.restore(); g.fillStyle = 'rgba(120,0,0,.3)'; g.fillRect(0, 0, W, H); for (let i = 0; i < 5; i++) { const y = R(H); g.drawImage(cv, 0, y, W, 24, R(80) - 40, y, W, 24); } } drawHud(); } }
@@ -1072,6 +1156,8 @@ export default async function (ctx) {
     else if (scene === 'custom') { T += dt; drawCustom(); }
     else if (scene === 'card') { T += dt; drawCard(); }
     else if (scene === 'six') { T += dt; drawSix(); }
+    else if (scene === 'archives') { T += dt; drawArchives(); }
+    else if (scene === 'doc') { T += dt; drawDoc(); }
     else if (scene === 'jump') { T += dt; drawJump(); }
     requestAnimationFrame(frame);
   }
@@ -1081,6 +1167,7 @@ export default async function (ctx) {
 
   // ---------- les commandes ----------
   const toCanvas = e => { const r = cv.getBoundingClientRect(); return { x: (e.clientX - r.left) * W / r.width, y: (e.clientY - r.top) * H / r.height }; };
+  const reboot = () => { if (!S.hacked || S.reboot > 0 || S.out || S.ramPos === 'in') return A.deny(); S.reboot = 4; A.reboot(); };
   const toggleCam = () => { if (S.out) return A.deny(); S.cam = !S.cam; if (S.cam) { S.lightL = S.lightR = false; A.camUp(); } else { A.camSwitch(); if (S.ramPos === 'in') die('ram'); } };
   const act = {
     doorL: () => { if (S.out || S.ramPos === 'in') return A.deny(); S.doorL = !S.doorL; A.door(S.doorL); }, doorR: () => { if (S.out || S.ramPos === 'in') return A.deny(); S.doorR = !S.doorR; A.door(S.doorR); },
@@ -1100,10 +1187,12 @@ export default async function (ctx) {
     for (const b of buttons) if (x > b.x && x < b.x + b.w && y > b.y && y < b.y + b.h) { A.click(); return b.fn(); }
     if (scene === 'intro') return sceneT > 2 ? start(1) : (sceneT = 99);
     if (scene === 'help') { scene = 'title'; return; }
+    if (scene === 'doc') { scene = 'archives'; return; }
     if (scene === 'six' && sceneT > 3) { if (S.n === 7) scene = 'title'; else start(Math.min(S.n + 1, 6)); return; }
     if (scene !== 'play') return;
     if (S.call && x > W - 300 && x < W - 180 && y > H - 202 && y < H - 176) { S.call = null; A.hush(); return; }
-    if (S.cam) { for (const [id, [mx, my]] of Object.entries(MAP)) if (x > MAPX + mx && x < MAPX + mx + 60 && y > MAPY + my && y < MAPY + my + 28) { S.sel = id; S.switchT = .22; A.camSwitch(); } return; }
+    if (S.cam) { if (x > MAPX - 10 && x < MAPX + 320 && y > MAPY - 58 && y < MAPY - 18) return lure(); if (pickFrag(x, y)) return; for (const [id, [mx, my]] of Object.entries(MAP)) if (x > MAPX + mx && x < MAPX + mx + 60 && y > MAPY + my && y < MAPY + my + 28) { S.sel = id; S.switchT = .22; A.camSwitch(); } return; }
+    if (x + S.pan > 560 && x + S.pan < 800 && y > 410 && y < 570) return reboot();
     const ox = x + S.pan;
     for (const side of ['L', 'R']) { const [px, y1, y2] = PANELS[side]; if (Math.hypot(ox - px, y - y1) < 26) return act['door' + side](); if (Math.hypot(ox - px, y - y2) < 26) return act['light' + side](); }
     if (ox > 880 && ox < 990 && y > 600 && y < 656) return act.vent();
@@ -1115,6 +1204,7 @@ export default async function (ctx) {
     if (k === ' ') { e.preventDefault(); toggleCam(); }
     else if (k === 'q') act.doorL(); else if (k === 'd') act.doorR(); else if (k === 'a') act.lightL(); else if (k === 'e') act.lightR(); else if (k === 'v') act.vent();
     else if (k === 'c' && S.call) { S.call = null; A.hush(); }
+    else if (k === 'l') lure(); else if (k === 'r') reboot();
     else if (/^[1-8]$/.test(k) && S.cam) { S.sel = k; S.switchT = .22; A.camSwitch(); }
     else if (k === 'escape') { A.hush(); A.ambience(false); scene = 'title'; }
   });
@@ -1130,5 +1220,5 @@ export default async function (ctx) {
   for (const [id] of Object.entries(MAP)) if (!rooms[id]) bad.push('caméra ' + id + ' sans pièce');
   view.dataset.selfcheck = bad.join(' | ') || 'ok';
   // pour le test automatique de NeoDex : l'état, et la nuit qu'on peut faire défiler vite
-  cv.__ra = { get S() { return S; }, get scene() { return scene; }, get sceneT() { return sceneT; }, save, start, set speed(v) { speed = v; }, act, toggleCam, tick: dt => tick(dt), sel: id => { S.sel = String(id); } };
+  cv.__ra = { get S() { return S; }, get scene() { return scene; }, get sceneT() { return sceneT; }, set scene(v) { scene = v; sceneT = 0; }, openDoc: id => { doc = DOCS().find(d => d.id === id); scene = "doc"; sceneT = 0; }, save, start, set speed(v) { speed = v; }, act, toggleCam, lure, reboot, pickFrag, tick: dt => tick(dt), sel: id => { S.sel = String(id); } };
 }

diff --git a/test-neodex.js b/test-neodex.js
@@ -1,4 +1,4 @@
-// lancé par le test « local » de NeoDex : vérification interne, une nuit jouée en accéléré portes fermées, puis Ram qui entre par une porte ouverte
+// lancé par le test « local » de NeoDex : vérification interne, une nuit jouée en accéléré portes fermées, le redémarrage et le leurre, puis Ram qui entre par une porte ouverte
 module.exports = async ({ pj, sleep }) => {
   const ra = e => pj(`(() => { const r = document.querySelector('canvas').__ra; return ${e}; })()`);
   const sc = await pj(`document.querySelector('[data-selfcheck]')?.dataset.selfcheck`); if (sc !== 'ok') throw new Error('vérification interne : ' + sc);
@@ -12,14 +12,18 @@ module.exports = async ({ pj, sleep }) => {
   await ra(`(r.toggleCam(), r.S.power = 1e6, (() => { for (let i = 0; i < 400 && r.scene === 'play'; i++) r.tick(1); })(), 0)`);
   if (await ra('r.scene') !== 'six') throw new Error('6 h pas atteintes : ' + await ra('r.scene + " " + r.S.time + " RAM " + r.S.ram'));
   if (await ra('r.save.night') < 2) throw new Error('nuit 2 pas débloquée');
+  if (!await ra("r.save.docs.includes('j1')")) throw new Error('le journal de la nuit 1 manque aux archives');
   // nuit 3 : Ram arrive à la porte gauche ouverte, il doit entrer
   await ra(`(r.start(3), r.speed = 40, 0)`);
   for (let i = 0; i < 50 && await ra('r.scene') !== 'play'; i++) await sleep(100);
-  await ra(`(r.speed = 1, r.S.call = null, r.toggleCam(), r.S.ramPos = 'L', r.S.doorWait = .2, 0)`);
+  // caméras piratées puis redémarrées depuis le moniteur ; le leurre attire Ram de la caméra 4 à la 3 (8 fois sur 10)
+  const ok = await ra(`(r.speed = 1, r.S.call = null, r.S.ramT = -99, r.S.hacked = true, r.reboot(), r.tick(2), r.tick(2.1), r.toggleCam(), r.sel(3), (() => { let h = r.S.hacked; for (let k = 0; k < 10 && r.S.ramPos !== '3'; k++) { r.S.ramPos = '4'; r.S.ramT = -99; r.S.lureCd = 0; r.lure(); r.S.lure.t = .01; r.tick(.05); } return [h, r.S.ramPos]; })())`);
+  if (ok[0] || ok[1] !== '3') throw new Error('redémarrage ou leurre : ' + JSON.stringify(ok));
+  await ra(`(r.S.ramPos = 'L', r.S.doorWait = .2, 0)`);
   await sleep(800);
   if (await ra('r.S.ramPos') !== 'in') throw new Error('Ram devait entrer dans le bureau : ' + await ra('r.S.ramPos'));
   await ra('(r.toggleCam(), 0)');  // baisser la tablette : il attaque
   await sleep(300);
   if (await ra('r.scene') !== 'jump') throw new Error('Ram devait entrer : ' + await ra('r.scene'));
-  return 'nuit 1 tenue jusqu\'à 6 h portes fermées, nuit 2 débloquée, Ram entre par une porte ouverte et attaque quand on baisse la tablette';
+  return 'nuit 1 tenue jusqu\'à 6 h portes fermées, nuit 2 débloquée, Ram entre par une porte ouverte et attaque quand on baisse la tablette, journal aux archives, redémarrage des caméras et leurre audio';
 };

diff --git a/README.en.md b/README.en.md
@@ -23,7 +23,14 @@ The game itself is in French.
 - **The Scalper** sleeps at the loading dock (camera 5). He doesn't move while you watch him. Forget him and he runs down the east hall: right door open, he steals 16 GB; door closed, he bangs on it and it costs power.
 - **The Chips** scratch inside the vent (camera 7). When they reach the hatch above you, close it, or they eat 8 GB.
 
+- **The audio lure** (key **L**, or the button above the map) plays a chime in the room you are watching. If Ram is in a neighboring room, he comes to look: that's how you pull him away from a door. On camera 7, it drives the Chips back. It costs a little power and has to recharge.
+- **From night 2**, Ram sometimes hacks the cameras: "access denied". Reboot them from the office monitor (key **R**, or click the screen): 4 seconds, and it uses power.
+
 Everything uses power: doors, lights, hatch, cameras. At 0%, everything goes dark… and Ram comes humming.
+
+## The story
+
+Why is the camera clock stuck on November 13, 1987? Who was Léo Octet? Papers sometimes lie on the cameras for a few seconds: click them to pick them up. Every night you win also adds a newspaper clipping. Everything can be reread in the **Archives** from the menu, and whoever finds all 8 fragments and survives night 6 gets the true ending.
 
 ## Nights
 
@@ -33,7 +40,7 @@ Everything uses power: doors, lights, hatch, cameras. At 0%, everything goes dar
 
 ## Data and sync
 
-The night reached, the stars and the custom night settings are saved by NeoDex, backed up and synced between your PCs if sync is on.
+The night reached, the stars, the documents found and the custom night settings are saved by NeoDex, backed up and synced between your PCs if sync is on.
 
 ## Good to know
 
